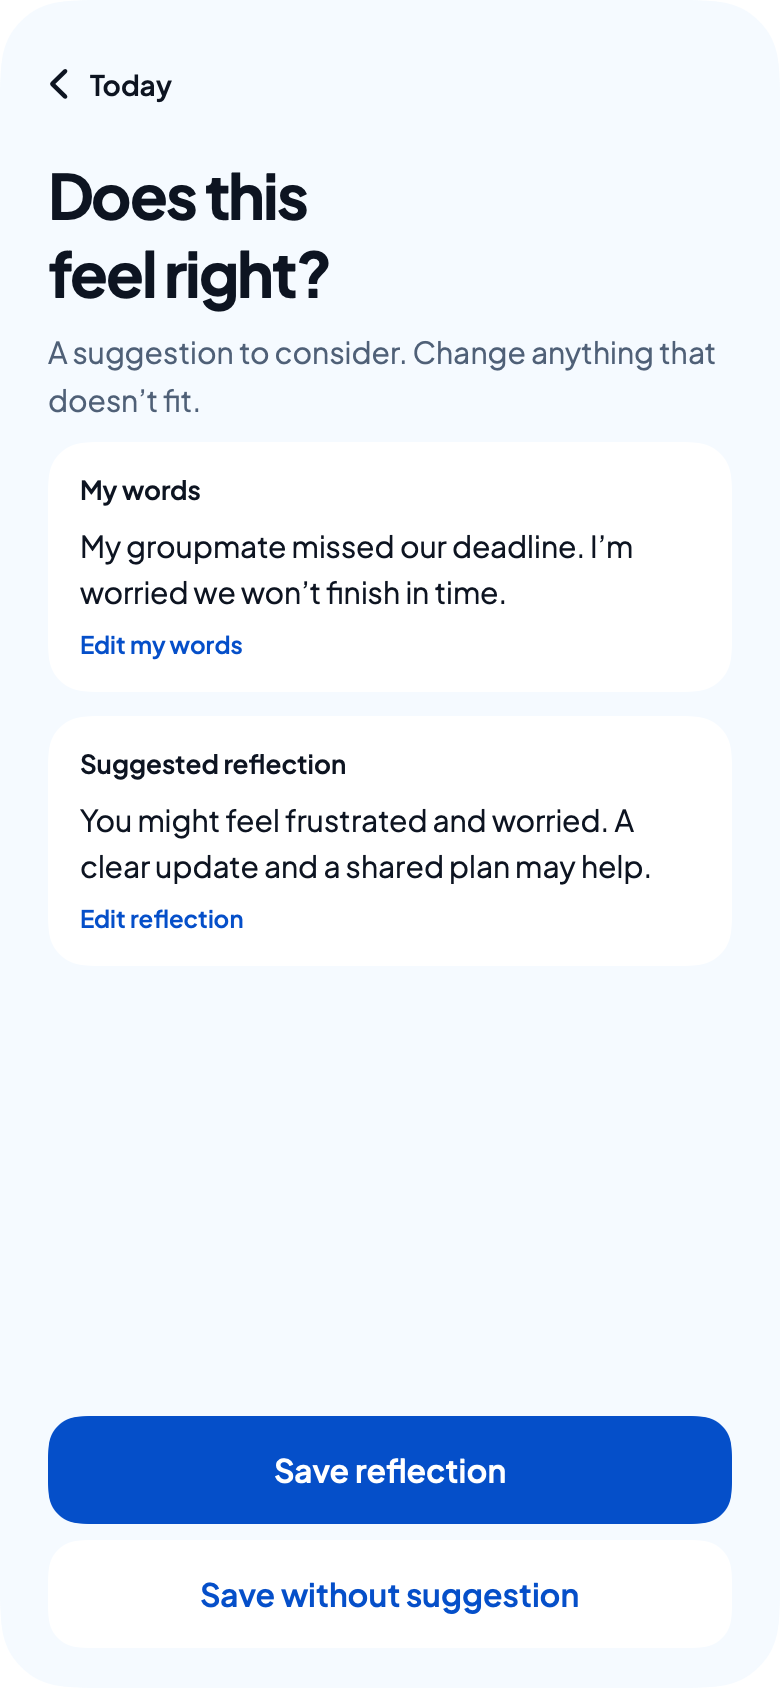
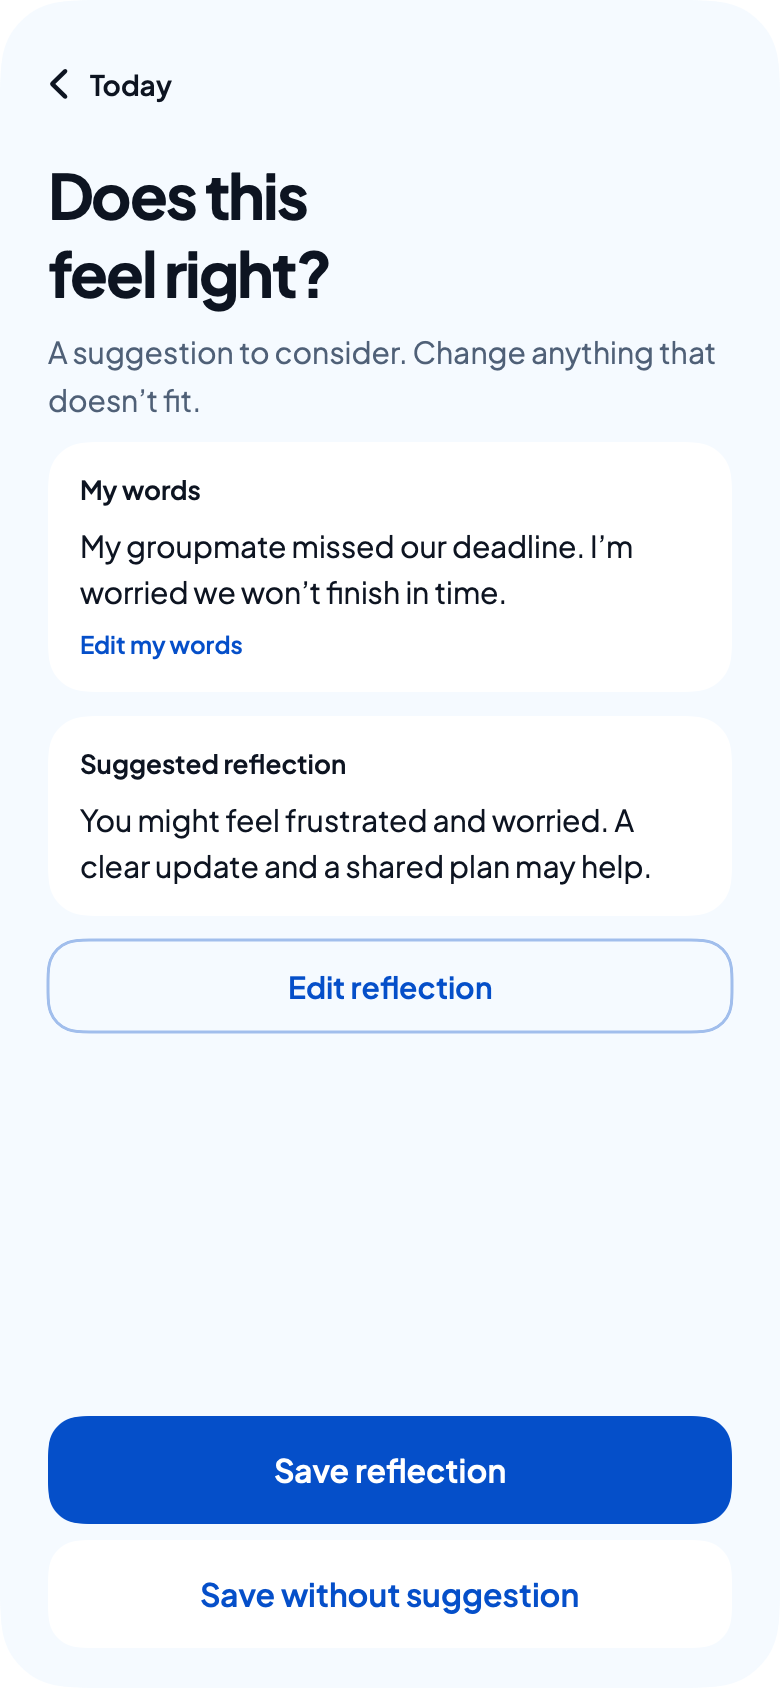
feat(prototype): apply Today walkthrough task 2 decisions
Owner decisions: Edit reflection is a full-width outlined button under
the suggestion; the reflection editor drops "This updates the
reflection only."; a static leave-with-unsaved-edits prompt (Keep
editing / Discard) is available as --board edit-reflection-leave and is
recorded as a real-app requirement. Renders regenerated.

diff --git a/Prototypes/CircleUVisualPrototype/Sources/CircleUVisualPrototype/BrandFlowPreview.swift b/Prototypes/CircleUVisualPrototype/Sources/CircleUVisualPrototype/BrandFlowPreview.swift
@@ -132,8 +132,13 @@ public struct BrandHubPreview: View {
 /// Static editing specimens: original words and editable interpretation remain distinct.
 public struct BrandEditorPreview: View {
     public let kind: EditorPreviewKind
+    /// Static state for leaving with unsaved edits (walkthrough task 2); real behaviour is for the app.
+    public let showsLeavePrompt: Bool
 
-    public init(kind: EditorPreviewKind) { self.kind = kind }
+    public init(kind: EditorPreviewKind, showsLeavePrompt: Bool = false) {
+        self.kind = kind
+        self.showsLeavePrompt = showsLeavePrompt
+    }
 
     public var body: some View {
         VStack(alignment: .leading, spacing: 0) {
@@ -173,9 +178,9 @@ public struct BrandEditorPreview: View {
                 .frame(maxWidth: .infinity, minHeight: 163, alignment: .topLeading)
                 .padding(18).background(.white, in: RoundedRectangle(cornerRadius: 18))
                 .overlay(RoundedRectangle(cornerRadius: 18).stroke(BrandDemoColor.blue.opacity(0.2)))
-            BrandFixture.detail(kind == .reflection
-                ? "This updates the reflection only."
-                : "Saving this message creates no journal entry.", size: 12).padding(.top, 10)
+            if kind == .message {
+                BrandFixture.detail("Saving this message creates no journal entry.", size: 12).padding(.top, 10)
+            }
             Spacer(minLength: 14)
             BrandFixture.action(kind == .reflection ? "Save reflection" : "Save message")
             if kind == .message {
@@ -187,7 +192,25 @@ public struct BrandEditorPreview: View {
         .padding(.horizontal, 24).padding(.bottom, 22)
         .frame(width: 390, height: 844)
         .foregroundStyle(BrandDemoColor.ink).background(BrandDemoColor.ice)
+        .overlay { if showsLeavePrompt { leavePrompt } }
         .clipShape(RoundedRectangle(cornerRadius: 36)).environment(\.colorScheme, .light)
+    }
+
+    private var leavePrompt: some View {
+        ZStack {
+            BrandDemoColor.ink.opacity(0.28)
+            VStack(spacing: 14) {
+                Text("Discard your changes?").font(BrandDemoFont.font(18, .bold))
+                BrandFixture.detail("Your edits to this reflection haven’t been saved.", size: 14)
+                    .multilineTextAlignment(.center)
+                BrandFixture.action("Keep editing")
+                Text("Discard").font(BrandDemoFont.font(15, .semibold))
+                    .foregroundStyle(.red) // System destructive colour; no new brand token.
+                    .frame(maxWidth: .infinity).frame(height: 44)
+            }
+            .padding(22).background(.white, in: RoundedRectangle(cornerRadius: 24))
+            .padding(.horizontal, 28)
+        }
     }
 }
 

diff --git a/Prototypes/CircleUVisualPrototype/Sources/CircleUVisualPrototype/BrandJourneyPreview.swift b/Prototypes/CircleUVisualPrototype/Sources/CircleUVisualPrototype/BrandJourneyPreview.swift
@@ -111,7 +111,15 @@ public struct BrandJourneyPreview: View {
         case .reflection:
             if !iconLed { BrandFixture.detail("A suggestion to consider. Change anything that doesn’t fit.") }
             block("My words", text: originalWords, edit: "Edit my words")
-            block("Suggested reflection", text: "You might feel frustrated and worried. A clear update and a shared plan may help.", edit: "Edit reflection")
+            block("Suggested reflection", text: "You might feel frustrated and worried. A clear update and a shared plan may help.",
+                  edit: iconLed ? "Edit reflection" : nil)
+            if !iconLed {
+                // Owner decision (walkthrough task 2): a full-width outlined button, not a small link.
+                Text("Edit reflection").font(BrandDemoFont.font(15, .semibold))
+                    .foregroundStyle(BrandDemoColor.blue)
+                    .frame(maxWidth: .infinity).frame(height: 46)
+                    .overlay(RoundedRectangle(cornerRadius: 16).stroke(BrandDemoColor.blue.opacity(0.35), lineWidth: 1.5))
+            }
         case .entry:
             if iconLed { chip("Saved · 24 Oct · 10:30 am", symbol: "checkmark.circle") }
             else { BrandFixture.detail("24 October 2026 · 10:30 am", size: 12) }

diff --git a/Prototypes/CircleUVisualPrototype/CircleUPreviewHost/CircleUPreviewHost/ContentView.swift b/Prototypes/CircleUVisualPrototype/CircleUPreviewHost/CircleUPreviewHost/ContentView.swift
@@ -26,6 +26,8 @@ struct ContentView: View {
                 BrandHubPreview(screen: hub)
             } else if let journey = BrandJourneyScreen(rawValue: name) {
                 BrandJourneyPreview(screen: journey)
+            } else if name == "edit-reflection-leave" {
+                BrandEditorPreview(kind: .reflection, showsLeavePrompt: true)
             } else if name.hasPrefix("edit-"), let kind = EditorPreviewKind(rawValue: String(name.dropFirst(5))) {
                 BrandEditorPreview(kind: kind)
             } else {

diff --git a/docs/design/prototype-review-results.md b/docs/design/prototype-review-results.md
@@ -9,7 +9,7 @@ Use [Demo 04](brand-demo/core-journeys.md) for appearance and the existing Figma
 | Task | Specimen / version | Observed outcome | Assistance | Misunderstanding | Severity | Proposed change | Retest |
 | --- | --- | --- | --- | --- | --- | --- | --- |
 | Keep original words without accepting advice | Owner walkthrough 25 Oct; main `812b1ca` boards on phone (CircleU Preview `--board`) | Owner accepted all recommendation cards: start from Work through a moment; Save only my words found on Write and Suggestion screens | Moderated: recommendation cards, static boards | None reported | Low | Rename "Review a reflection" → "Get a suggestion"; Suggestion screen secondary → "Save without suggestion"; keep both full-width; reflection stays opt-in; draft card only when a draft exists (real app) | Prototype copy applied on `codex/today-task1-changes`; not retested |
-| Correct an interpretation, leave, return and find the intended version | Not run | Not observed | Not observed | Not observed | Unassessed | None yet | Not run |
+| Correct an interpretation, leave, return and find the intended version | Owner walkthrough 25 Oct; Suggestion → Edit reflection → Saved entry boards on phone | Owner accepted: original words shown locked on the edit screen; Journal shows the latest saved version at the top | Moderated: recommendation cards, static boards | None reported | Low | "Edit reflection" becomes a full-width outlined button under the suggestion; Back with unsaved edits asks "Keep editing / Discard" (real app; static prompt state added); remove "This updates the reflection only." | Prototype applied on `codex/today-task1-changes`; not retested |
 | Practice from a reflection, then create an independent message; distinguish Copy and Save | Not run | Not observed | Not observed | Not observed | Unassessed | None yet | Not run |
 | Find another date's entry, inspect an empty day, then use Search / All entries | Not run | Not observed | Not observed | Not observed | Unassessed | None yet | Not run |
 | Explain proposed storage/recovery and inspect linked-deletion choice/failure | Not run | Not observed | Not observed | Not observed | Unassessed | None yet | Not run |
@@ -21,6 +21,7 @@ For operations missing from a specimen, record **not testable here**. A moderato
 Owner decisions from the moderated walkthrough. The owner picked from Claude's recommendation cards (relayed via the project coordinator). These are prototype/design decisions, not production approval.
 
 - **Task 1:** "Save only my words" stays a full-width secondary button the same size as the main action. The AI reflection is opt-in: after writing, the person chooses to get a suggestion or to save, and nothing appears automatically. The Suggestion screen offers "Save without suggestion". The Write button is renamed "Get a suggestion". Today shows "Continue your draft" only when a draft exists (real app; the static first-visit board may keep it).
+- **Task 2:** "Edit reflection" is a full-width outlined button under the suggestion. Leaving the editor with unsaved edits asks "Discard your changes?" with Keep editing / Discard: a requirement for the real app, shown here as a static `edit-reflection-leave` board. "This updates the reflection only." is removed. The locked original words on the edit screen and the latest saved version at the top of Journal stay.
 - **Screens (during task 1):** remove the "BRAND DEMO · STATIC SAMPLE" footer and the Sample/Draft corner tags from every preview screen; sample status stays in captions, file names and docs.
 
 ## Open calendar decisions
